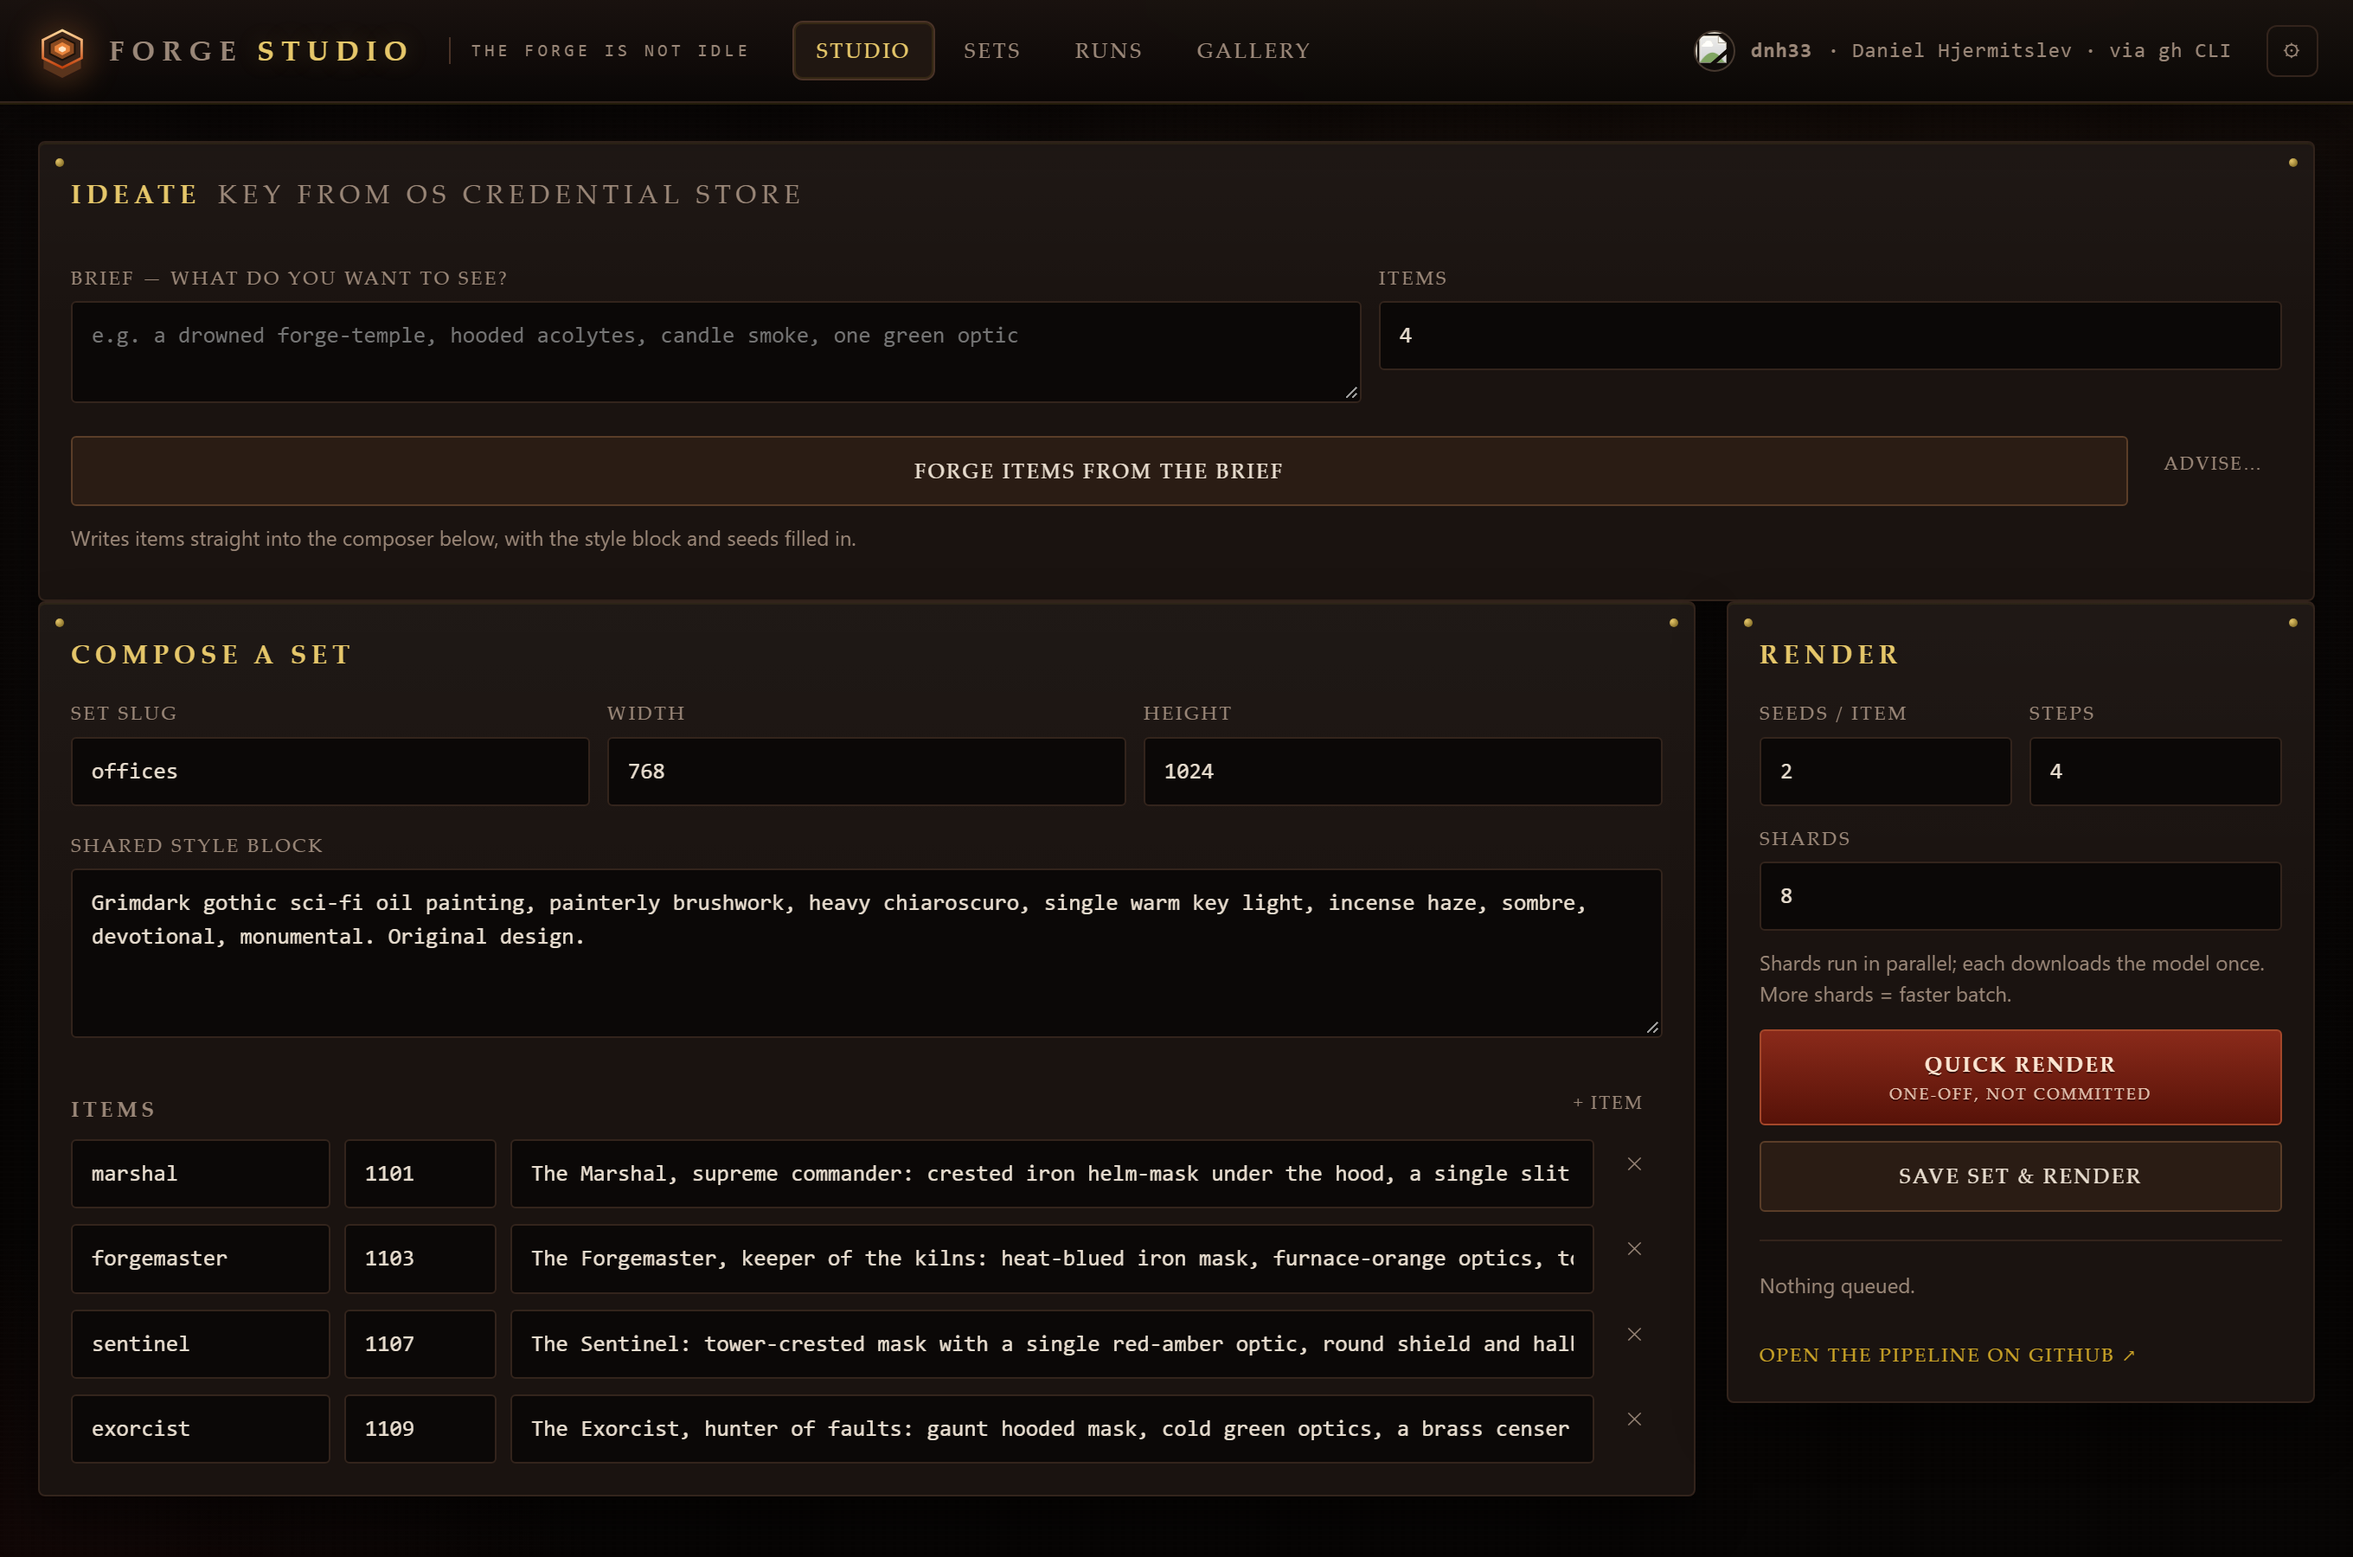
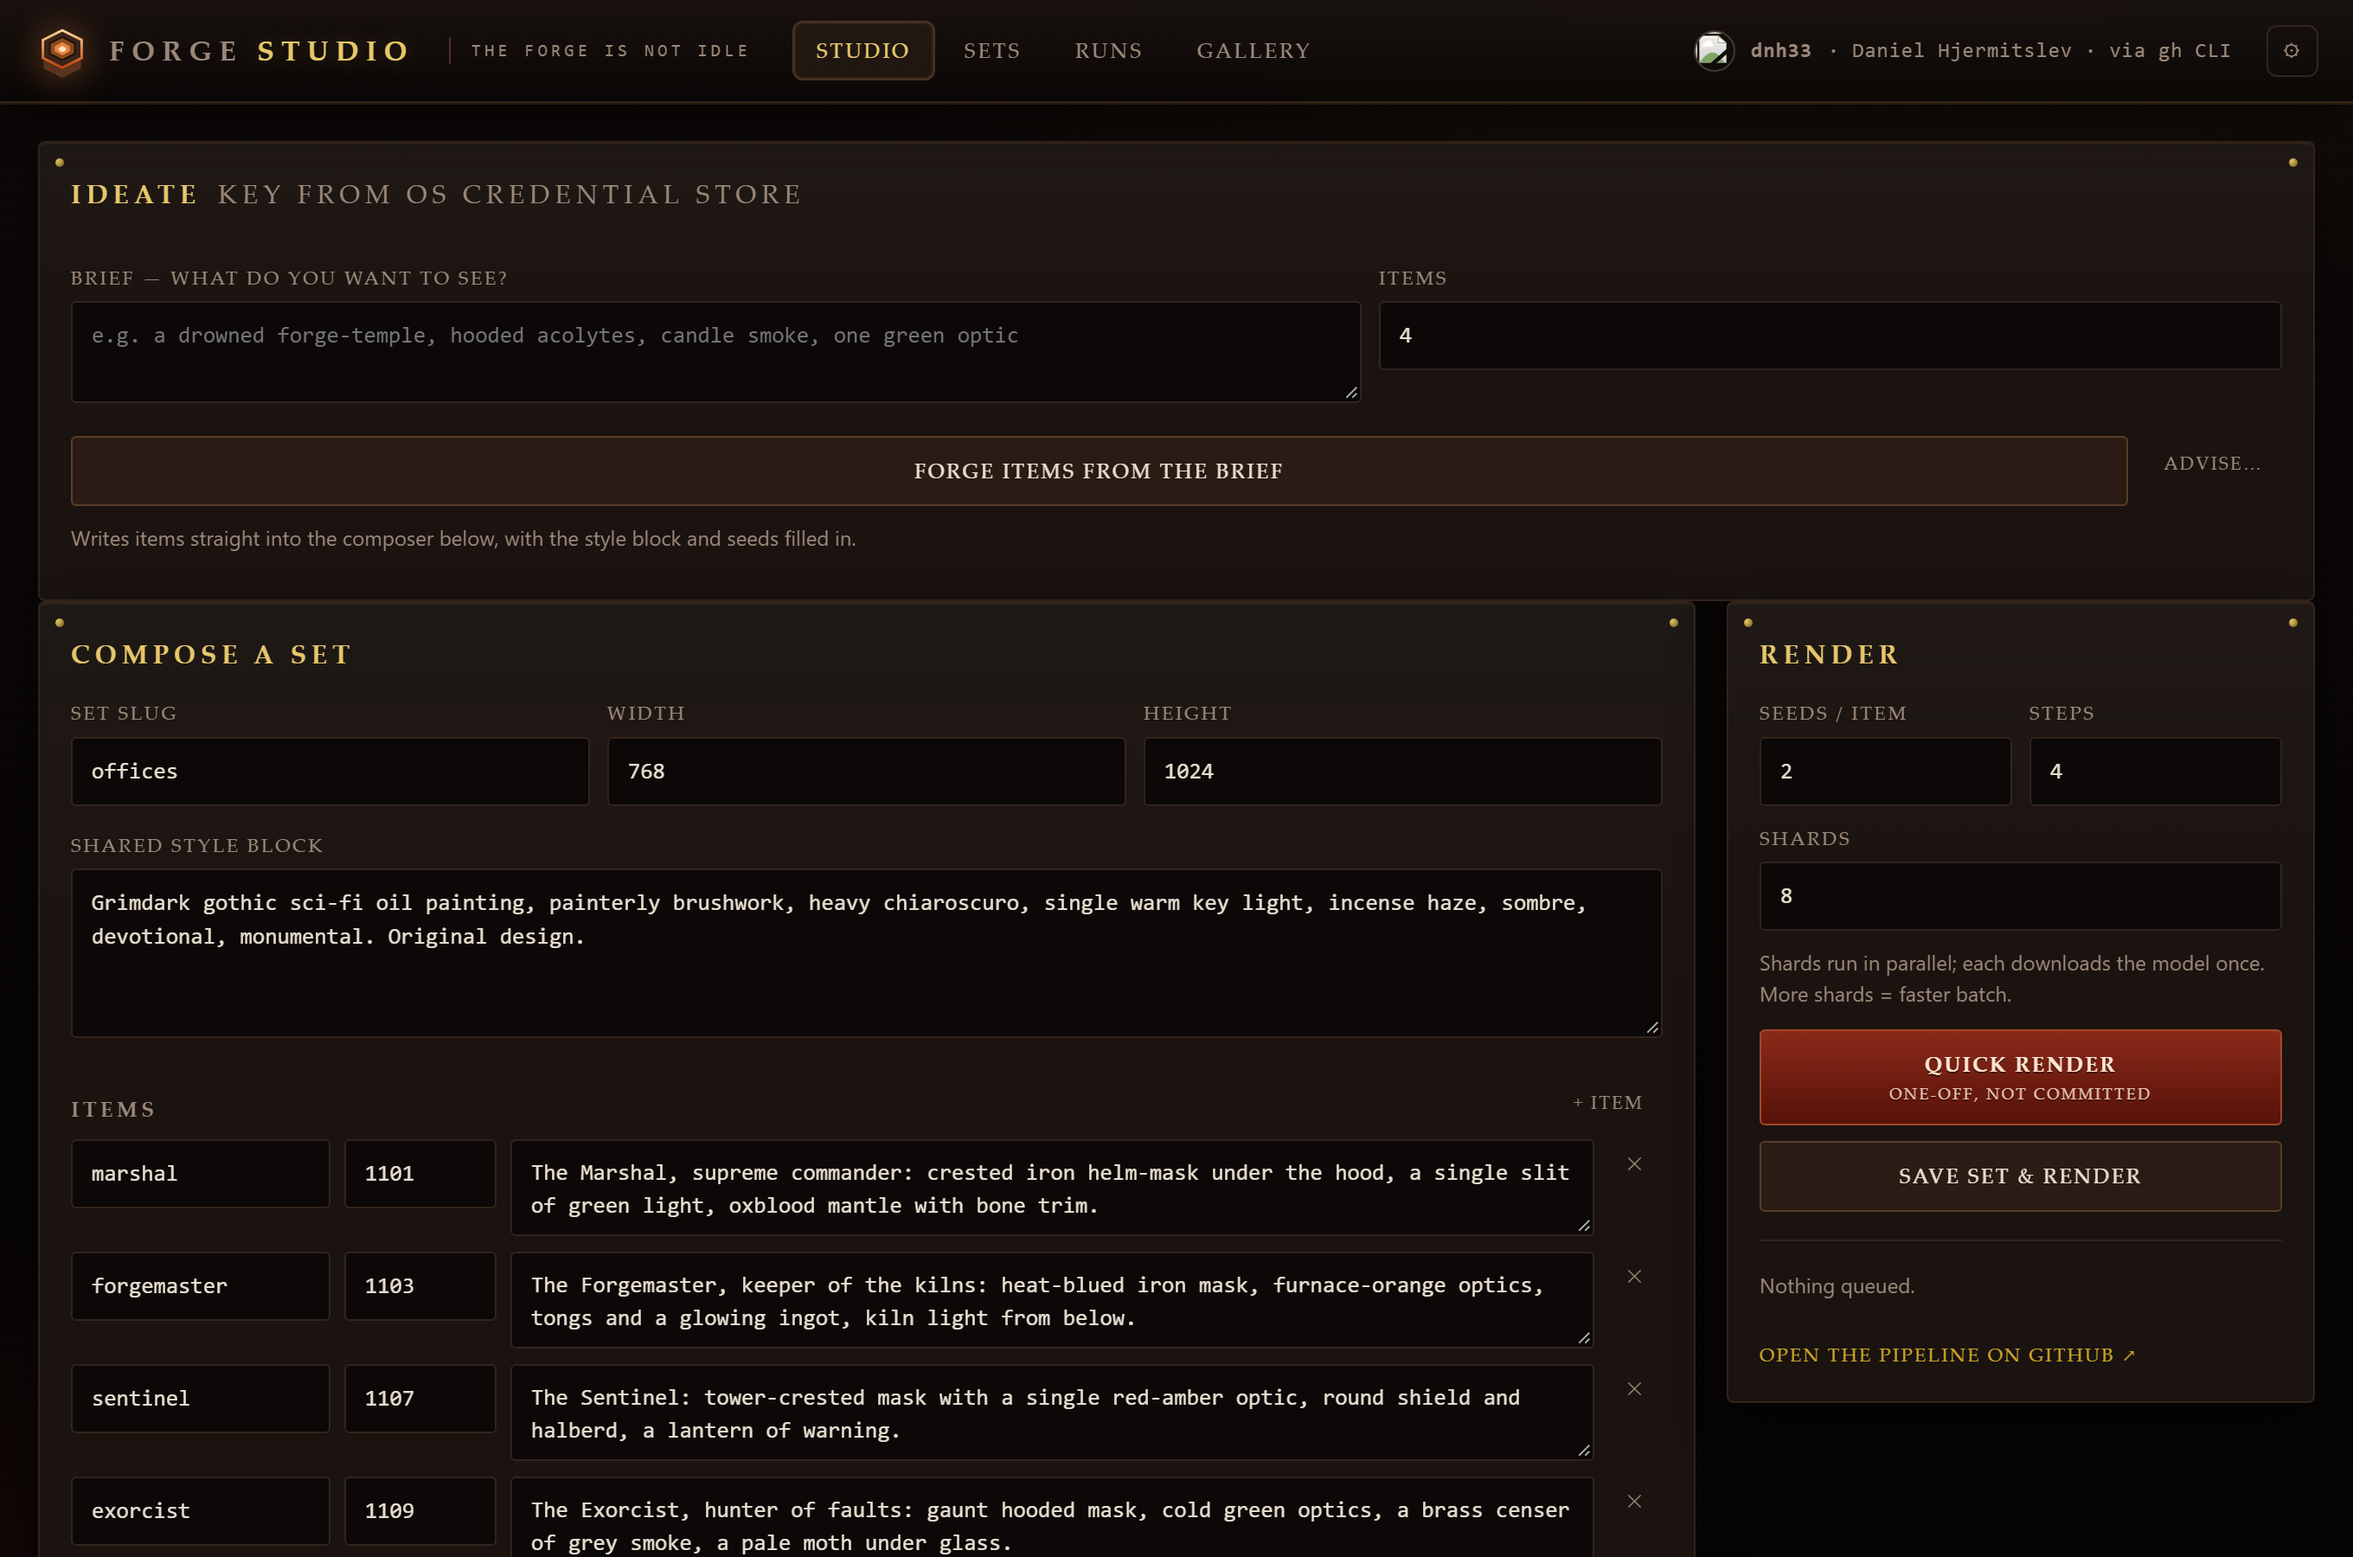
ui: item lines wrap instead of clipping, focus states, surface the agent interface; v0.2.0

Changed region(s): [[0.0312, 0.7467, 0.6875, 0.9956]]

diff --git a/app/ui/app.js b/app/ui/app.js
@@ -64,14 +64,25 @@ $$(".tab").forEach((t) =>
 
 // ------------------------------------------------------------------ items editor
 
+function grow(el) {
+  el.style.height = "auto";
+  el.style.height = Math.min(el.scrollHeight, 220) + "px";
+}
+
 function addItem(id = "", seed = "", line = "") {
   const row = document.createElement("div");
   row.className = "item";
   row.innerHTML = `
-    <input data-k="id" placeholder="item-id" value="${esc(id)}" spellcheck="false">
-    <input data-k="seed" placeholder="seed" value="${esc(seed)}" spellcheck="false">
-    <input data-k="line" placeholder="What is in this image?" value="${esc(line)}" spellcheck="false">
-    <button class="ghost small" data-k="del" title="remove">&#10005;</button>`;
+    <input data-k="id" placeholder="item-id" value="${esc(id)}" spellcheck="false"
+      aria-label="Item id" autocomplete="off">
+    <input data-k="seed" placeholder="seed" value="${esc(seed)}" spellcheck="false"
+      aria-label="Seed for this item" inputmode="numeric" autocomplete="off">
+    <textarea data-k="line" rows="2" placeholder="What is in this image?" spellcheck="false"
+      aria-label="Prompt line for this item">${esc(line)}</textarea>
+    <button class="ghost small" data-k="del" title="Remove this item" aria-label="Remove this item">&#10005;</button>`;
+  const ta = row.querySelector('[data-k="line"]');
+  ta.addEventListener("input", () => grow(ta));
+  requestAnimationFrame(() => grow(ta));
   row.querySelector('[data-k="del"]').addEventListener("click", () => row.remove());
   $("#items").appendChild(row);
   return row;
@@ -205,7 +216,23 @@ $("#gear").addEventListener("click", async () => {
   $("#settings").classList.remove("hidden");
   await loadOr();
   await loadOrModels();
+  await loadControl();
 });
+
+async function loadControl() {
+  let path;
+  try {
+    path = await invoke("control_descriptor");
+  } catch {
+    path = null;
+  }
+  const el = $("#ctlState");
+  if (!el) return;
+  el.innerHTML = path
+    ? "Listening on loopback. Any local agent can drive this app through it, and the port and token are published in "
+      + "<code>" + esc(path) + "</code>. Endpoints and the bundled MCP server are described in <code>docs/CONTROL.md</code>."
+    : "Off. The app was started with FORGE_CONTROL=off, so nothing can drive it from outside.";
+}
 $("#setClose").addEventListener("click", () => $("#settings").classList.add("hidden"));
 $("#setDone").addEventListener("click", () => $("#settings").classList.add("hidden"));
 

diff --git a/app/ui/styles.css b/app/ui/styles.css
@@ -102,6 +102,13 @@ button.small{padding:5px 10px;font-size:10.5px;width:auto;margin:0}
 button.linkish{background:none;border:none;color:var(--brass);padding:0;margin-top:14px;font-size:11px;
   letter-spacing:.1em}
 .hint{color:var(--muted);font-size:12px;margin:9px 0;line-height:1.5}
+:focus-visible{outline:2px solid var(--brass2);outline-offset:2px;border-radius:2px}
+.item textarea{min-height:46px;max-height:220px;resize:vertical;line-height:1.45;font-size:13px;
+  overflow:hidden}
+.ctl{margin-top:18px;border-top:1px solid var(--line);padding-top:14px}
+.ctl h3{margin:0 0 8px}
+.ctl .fine{font:11.5px/1.6 var(--mono);color:var(--muted);margin:0;word-break:break-word}
+.ctl code{color:var(--brass2)}
 hr{border:none;border-top:1px solid var(--line);margin:16px 0}
 
 .items-head{display:flex;align-items:center;justify-content:space-between;margin-top:16px}

diff --git a/app/ui/index.html b/app/ui/index.html
@@ -183,6 +183,10 @@
     </div>
     <label>Default model <select id="orModel"></select></label>
     <p class="fine">The model list is fetched live from openrouter.ai (public endpoint, no key needed).</p>
+    <section class="ctl">
+      <h3>Agent interface</h3>
+      <p class="fine" id="ctlState">checking&#8230;</p>
+    </section>
     <div class="sheet-foot">
       <button id="setDone" class="primary">Done</button>
     </div>

diff --git a/app/src-tauri/src/control.rs b/app/src-tauri/src/control.rs
@@ -339,6 +339,19 @@ fn route(method: &Method, path: &str, body: &str) -> (u16, serde_json::Value) {
     }
 }
 
+/// Path to the descriptor file that publishes the port and token, or None when
+/// the control plane is disabled. The UI shows this so the interface is
+/// discoverable rather than a secret only the docs know about.
+pub fn descriptor_path() -> Option<String> {
+    if std::env::var("FORGE_CONTROL")
+        .map(|v| v.eq_ignore_ascii_case("off"))
+        .unwrap_or(false)
+    {
+        return None;
+    }
+    Some(app_dir().join("control.json").to_string_lossy().to_string())
+}
+
 /// Start the control plane on a background thread. Never fails the app: if the
 /// port is taken or the feature is off, it logs and returns.
 pub fn start() {

diff --git a/app/src-tauri/src/lib.rs b/app/src-tauri/src/lib.rs
@@ -136,6 +136,11 @@ async fn or_advise(
     openrouter::advise(question, context, model).await
 }
 
+#[tauri::command]
+fn control_descriptor() -> Option<String> {
+    control::descriptor_path()
+}
+
 #[cfg_attr(mobile, tauri::mobile_entry_point)]
 pub fn run() {
     tauri::Builder::default()
@@ -167,6 +172,7 @@ pub fn run() {
             or_ideate,
             or_sharpen,
             or_advise,
+            control_descriptor,
         ])
         .run(tauri::generate_context!())
         .expect("error while running Forge Studio");
